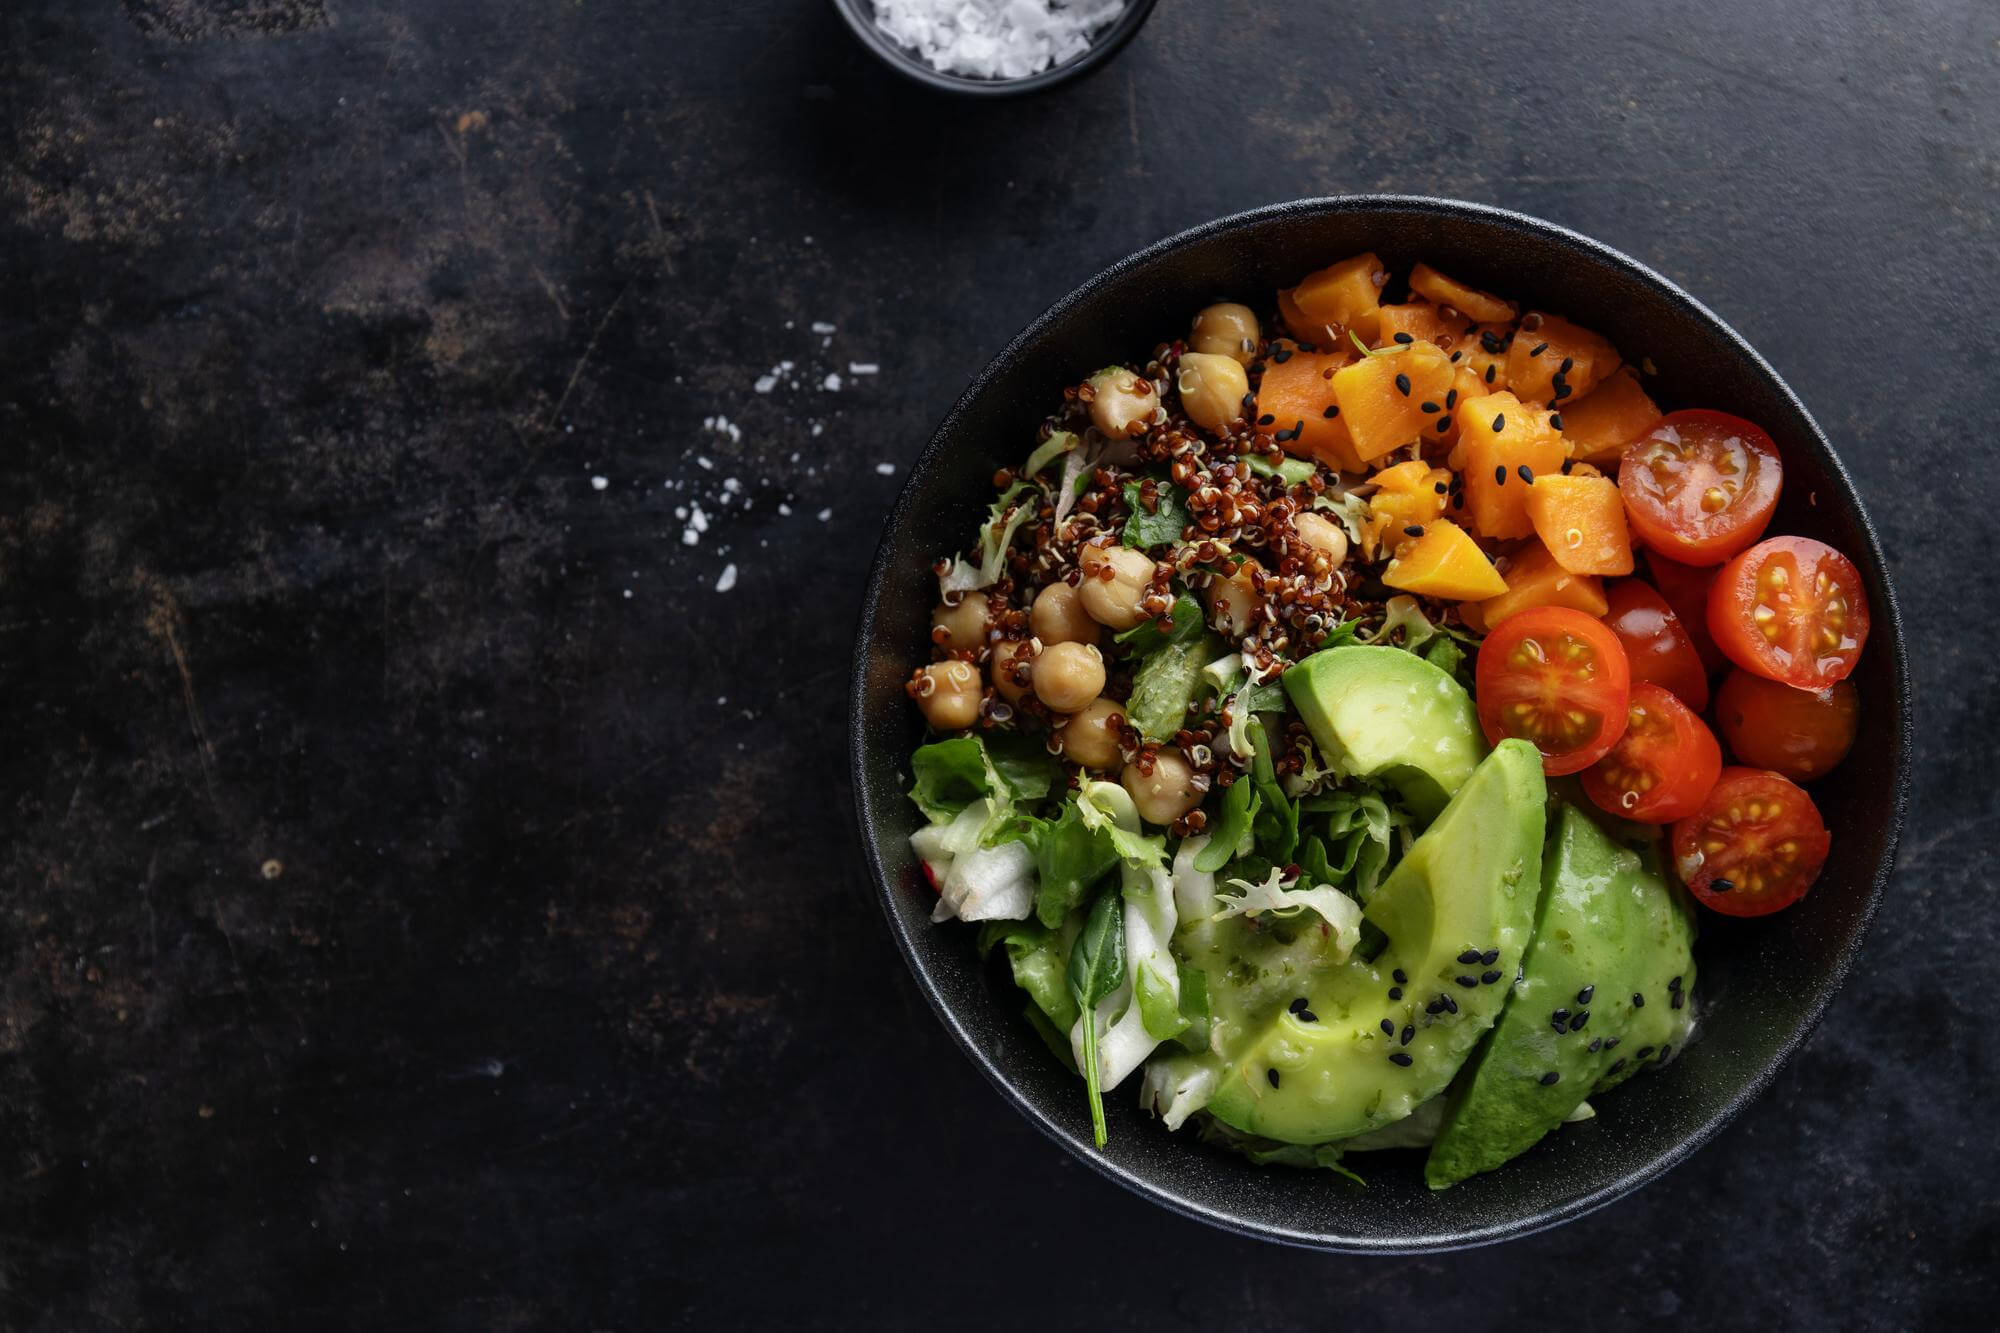
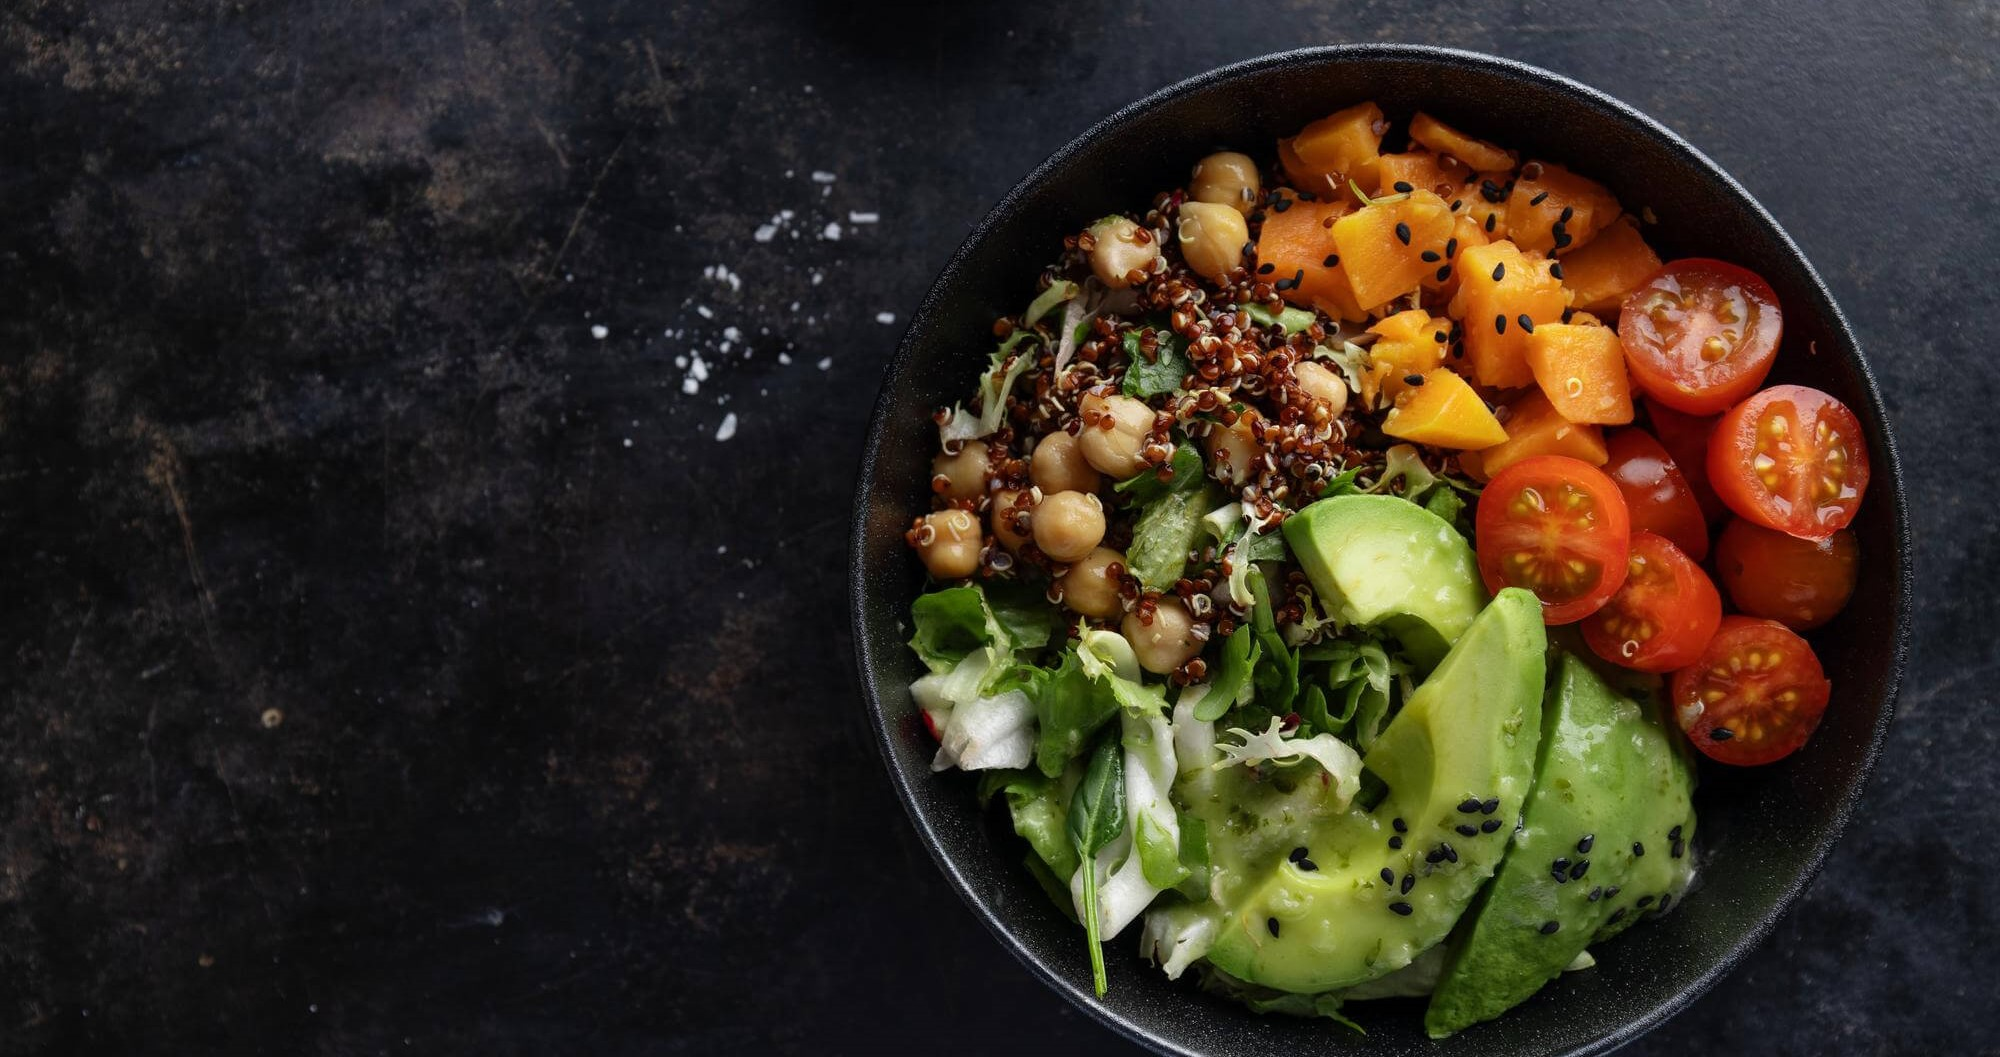
details

diff --git a/AprendeDesarrollate/src/main/resources/static/details.html b/AprendeDesarrollate/src/main/resources/static/details.html
@@ -48,7 +48,7 @@
           <img :src="producto.book " class="book">
           <h1 class="fuentePoppins curso w-100 text-center"><strong>CURSO COMPLETO</strong> </h1>
         </div>
-        <div class="d-flex justify-content-center">
+        <div class="d-flex justify-content-center m-4">
           <div class="descripcion fuentePoppins text-light col-6 m-3">
             <p v-if="producto.nombre=='Curso Cocina Vegana' ">
               Conocerás diversas preparaciones del mundo culinario en torno a una de las gastronomías más populares y conscientes de estos últimos años, La cocina vegana.  Vas a aprender con la mejor profesora de origen chileno, Nicole Palominos.  Chef y Profesora, que lleva años buscando las mejores recetas para sus alumnos.
@@ -93,8 +93,14 @@
         </div>
         <div>
           <img src="./assests/imagenes/compra.jpg" class="w-100 img-compra" alt="">
+          <div>
+            <h3>
+              ¡Inicia ahora tu formación con nosotros! <br>
+              ¿Estás listo para aumentar tus conocimientos ?
+            </h3>
+          </div>
         </div>
-        <div class="d-flex justify-content-center">
+        <div class="d-flex justify-content-center m-4">
             <img :src="producto.certificado " class="certificado col-6">
             <div class="col-4 ms-3 fuentePoppins d-flex align-items-center text-light">
               <p>Somos cursosdecocina, una escuela con 8 años de experiencia capacitando a cientos de entusiastas alumnos que hoy cocinan junto a sus familias o han levantado respetados emprendimientos.<br><br>

diff --git a/AprendeDesarrollate/src/main/resources/static/styleDetails.css b/AprendeDesarrollate/src/main/resources/static/styleDetails.css
@@ -33,7 +33,7 @@ body{
     top: -50px;
 }
 .book{
-    width: 80vh;
+    width: 90vh;
 }
 footer{
     background-image: linear-gradient(#eaeaea00, #e1edee00),
@@ -67,7 +67,7 @@ footer{
 .img-check{
     width: 25px;
     height: 25px;
-    margin: 5px;
+    margin: 8px;
 }
 .checks{
     background-color: white;
@@ -78,4 +78,10 @@ footer{
 .certificado{
     width: 90vh;
     height: 50vh;
+}
+.img-compra{
+    height: 40vh;
+    display: flex;
+    flex-direction: column;
+    filter: grayscale(30%);
 }
